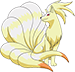
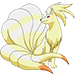
img en vista de single-pokemon

diff --git a/pokedex-angular-servicios/src/app/pokemon/pokemon.component.scss b/pokedex-angular-servicios/src/app/pokemon/pokemon.component.scss
@@ -78,11 +78,6 @@
     width: 45px;
   }
 
-.imgNinetales{
-    @extend .sprite_1-ninetales;
-    margin-left: 23%;
-}
-
 .imgFire{
     @extend .sprite_1-fire;
     display: inline-block;
@@ -146,13 +141,12 @@
         text-align: center;
     }
 
-    .sprite_1-ninetales{
-        height: 299px;
-        transform: scale(0.4);
-        width: 302px;
-        position: fixed;
-        margin-left: 0;
-        margin-top: -24%;
+    .pokeImg{
+        height: 100%;
+        transform: scale(1.5);
+        position: relative;
+        margin-left: 32%;
+        margin-top: 12%;
         z-index: 1;
     }
 

diff --git a/pokedex-angular-servicios/src/app/pokemon/pokemon.component.html b/pokedex-angular-servicios/src/app/pokemon/pokemon.component.html
@@ -5,7 +5,9 @@
                 <div class="imgFire"></div>
                 {{data[parametro].name}}
             </div>
-          <div class="imgNinetales"></div>
+          <div>
+            <img class="pokeImg" src="../../assets/{{data[parametro].img}}"/>
+          </div>
         </li>
         <li>
             <div class="dataCont">

diff --git a/pokedex-angular-servicios/src/app/services/petition.service.ts b/pokedex-angular-servicios/src/app/services/petition.service.ts
@@ -8,7 +8,7 @@ export class PeticionService {
     public url: string;
 
     constructor( private _http:Http ){
-        this.url = "https://api.myjson.com/bins/1crc4q";
+        this.url = "https://api.myjson.com/bins/8valm";
     }
 
     getInfo() {
